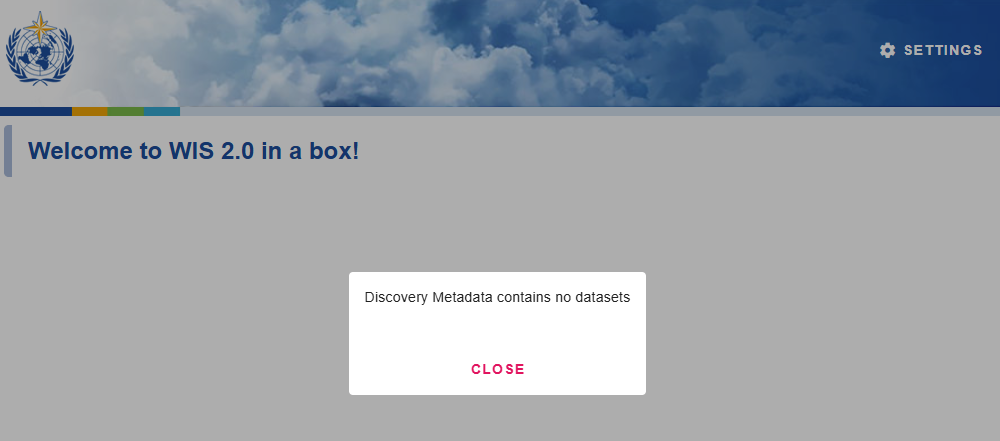
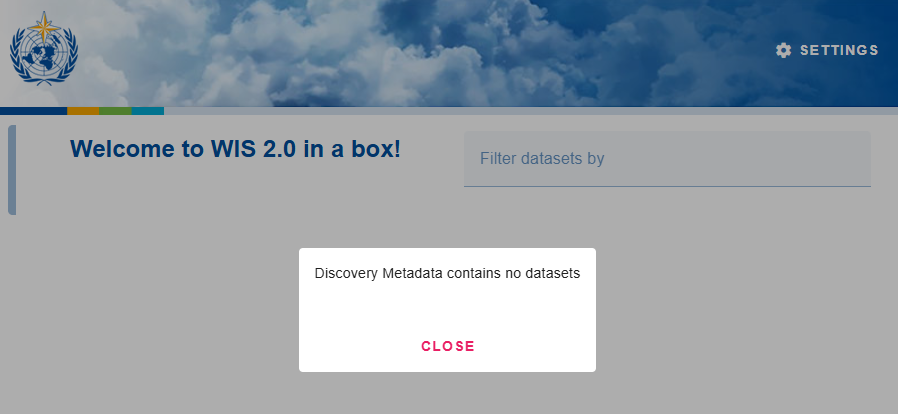
fix troubleshooting, update screenshots

diff --git a/docs/source/community/troubleshooting.rst b/docs/source/community/troubleshooting.rst
@@ -178,19 +178,33 @@ First stop the wis2box-stack:
 
 Then edit docker-compose.yml and replace:
 .. code-block:: yaml
+
    - "ES_JAVA_OPTS=-Xms512m -Xmx512m"
+
 with:
 .. code-block:: yaml
+
    - "ES_JAVA_OPTS=-Xms1g -Xmx1g"
 
 and also  replace:
 .. code-block:: yaml
+
    mem_limit: 1.5g
    memswap_limit: 1.5g
+
 with:
 .. code-block:: yaml
+
    mem_limit: 2g
    memswap_limit: 2g
+
+Then start the wis2box-stack again:
+
+.. code-block:: bash
+
+   python3 wis2box-ctl.py start
+
+Make sure that your host has enough free memory for the new settings.
 
 MinIO unable to start SFTP server to sftp id_rsa missing
 ---------------------------------------------------------
@@ -198,6 +212,7 @@ MinIO unable to start SFTP server to sftp id_rsa missing
 When you see the following error in the logs of the `wis2box-minio` container:
 
 .. code-block:: bash
+
    FATAL unable to start SFTP server: invalid arguments passed, private key file is not accessible: open /home/miniouser/.ssh/id_rsa: no such file or directory
 
 It means that the SSH keys required to start the SFTP server are missing.
@@ -213,20 +228,30 @@ If required, you can manually create the SSH keys as follows:
 
 Make sure to replace `<your-wis2box-host-datadir>` with the actual path defined by `WIS2BOX_HOST_DATADIR` in your `wis2box.env` file.
 
-You can disabled the SFTP server in MinIO to allow the wis2box-stack to start without SSH keys.
+You can disable the SFTP server in MinIO to allow the wis2box-stack to start without SSH keys. You will not be able to ingest data using SFTP in this case.
 
 To do so, first stop the wis2box-stack:
 .. code-block:: bash
+
    python3 wis2box-ctl.py stop
 
 Then edit docker-compose.yml and replace:
 .. code-block:: yaml
+
    command: server --quiet --console-address ":9001" --sftp="address=:8022" --sftp="ssh-private-key=/home/miniouser/.ssh/id_rsa" /data
 
 With:
 .. code-block:: yaml
+
    command: server --quiet --console-address ":9001" /data
 
 After making the changes, start the wis2box-stack again:
 .. code-block:: bash
+
    python3 wis2box-ctl.py start
+
+And check if the all the services are now running correctly:
+
+.. code-block:: bash
+
+   python3 wis2box-ctl.py status
